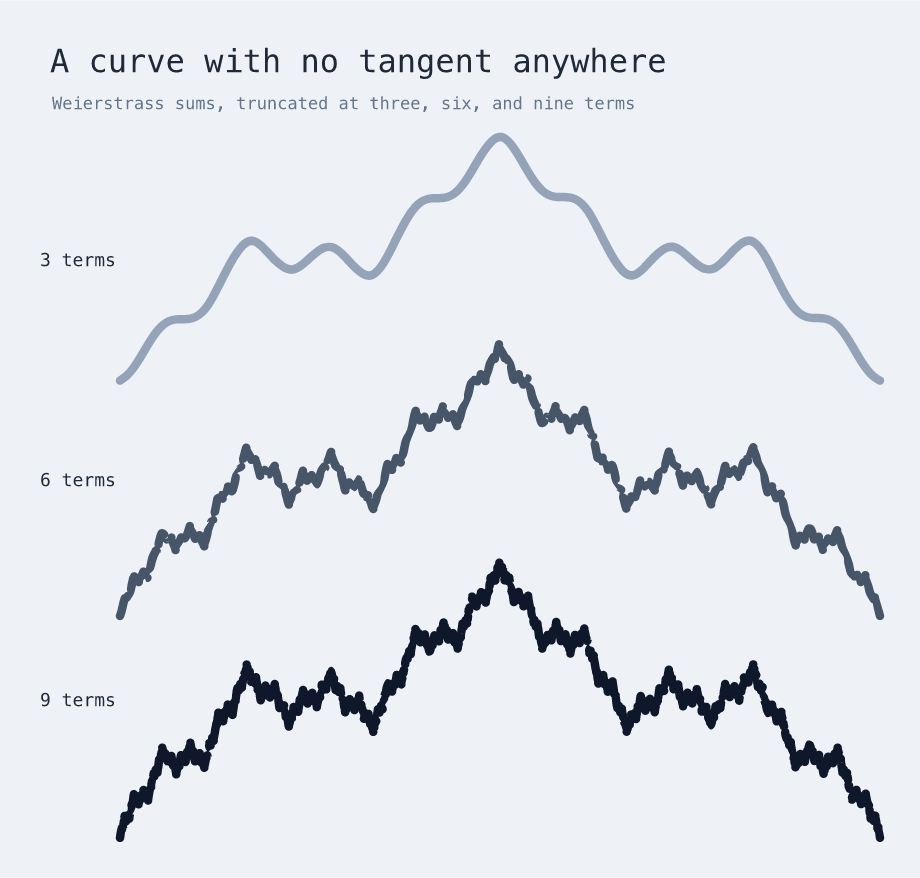
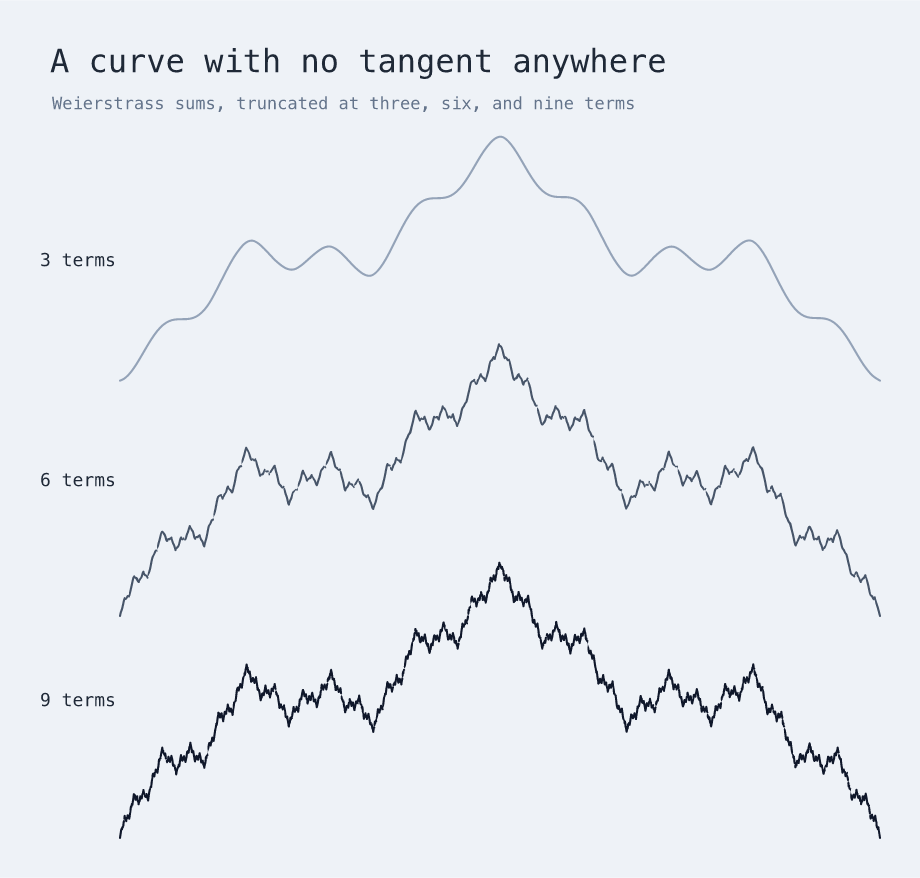
docs: draw plotted curves at the width their detail needs
A plot is lowered to a freehand stroke, and the renderer scales such a
stroke by 4.25 to match Excalidraw, so 'stroke-width 2' is about eight
pixels of ink. Every plot in the repository was written at 2 and was
painting over the thing it was there to show: the harmonograph's centre
was a solid block rather than separate strands, and the inner lobes of
both lacunary loops merged, which is exactly the self-similarity the
page claims for them.

Halve it to 0.5 on the three figures made of fine curves. Every strand
now resolves, at full colour rather than the grey a quarter-width stroke
anti-aliases to.

While measuring, found that the tolerance does not reach the ink.
perfect-freehand streamlines the points before drawing them, in this
renderer and in Excalidraw alike, and on these four curves that moves
the line up to 1.8px off a polyline sampled to 0.5px. The sampler is
sound; nothing downstream honours it. Say points rather than drawn line
wherever the guarantee is stated, which is what the sampler actually
promises, and leave the wider fix for its own change.

diff --git a/docs/plotting.md b/docs/plotting.md
@@ -76,7 +76,7 @@ x = a * t        unknown name 'a'
 
 ## Tolerance is a guarantee, not a target
 
-`tolerance` is the greatest distance the drawn line may fall from the true
+`tolerance` is the greatest distance a sampled point may fall from the true
 curve, in pixels. It defaults to `0.5`.
 
 ![The same rose at tolerance 16, 3, and 0.5. Petals collapse at the coarsest](images/plot-tolerance.png)
@@ -89,6 +89,25 @@ The word *guarantee* is meant literally. The compiler does not sample the curve
 at some points and hope the rest behaves; it bounds each span of the curve and
 subdivides until the bound fits inside the tolerance. A curve of high frequency
 cannot slip between the samples, because there are no samples to slip between.
+
+## The tolerance is about the points, not the ink
+
+A plot becomes a freehand stroke, and both this compiler's preview and
+Excalidraw draw such a stroke with [perfect-freehand](https://github.com/steveruizok/perfect-freehand),
+which streamlines and smooths the points on its way to an outline. That is
+right for a stroke someone drew with a pointer and wrong for one a compiler
+computed: measured against the four curves in `examples/parametric-plots.xdraw`,
+the smoothing moves the drawn centreline up to 1.8px away from the sampled
+polyline, on curves sampled to 0.5px.
+
+So the guarantee below is about where the points are, which is what the sampler
+controls. Getting the ink to match would mean emitting a line element rather
+than a stroke.
+
+The renderer also scales a stroke by 4.25, mirroring Excalidraw, so
+`stroke-width 2` is drawn about eight pixels wide. Fine curves want a fraction:
+the plots in this repository use `stroke-width 0.5`, without which strands
+overlapping at a few pixels' distance merge into a solid block.
 
 ## What it refuses, and why
 

diff --git a/docs/curve-gallery.md b/docs/curve-gallery.md
@@ -59,7 +59,7 @@ the ninth term oscillates 6561 times faster than the first.
 This is the hardest shape to draw accurately: high frequency riding on low, so
 that a sampler judging flatness from a handful of probes will call a span
 straight when it is anything but. Nine terms needs 3917 points and 409 ms, and
-the drawn line stays within 0.484px of the true curve. Source:
+the sampled points stay within 0.484px of the true curve. Source:
 [`examples/fractal-curve.xdraw`](../examples/fractal-curve.xdraw).
 
 ## Fractals: what a closed vocabulary reaches, and what it cannot
@@ -123,8 +123,9 @@ faster harmonic. Source:
 
 ## What held
 
-Sixteen curves at a 0.5px tolerance, with the true worst departure measured
-afterwards by dense probing rather than trusted from the sampler:
+Sixteen curves at a 0.5px tolerance, with the worst departure of the sampled
+points measured afterwards by dense probing rather than trusted from the
+sampler:
 
 | curve | nodes | points | ms | worst | |
 |---|--:|--:|--:|--:|---|

diff --git a/README.md b/README.md
@@ -205,8 +205,8 @@ diagram "Quadratic formula" {
 XDRAW
 ```
 
-`math.plot` draws a parametric curve from a pair of expressions, and guarantees
-the drawn line stays within a stated distance of the true curve:
+`math.plot` draws a parametric curve from a pair of expressions, sampling it
+until the points provably lie within a stated distance of the true curve:
 
 ![Four parametric curves: a butterfly, a spirograph rosette, a harmonograph, and a Lissajous weave](docs/images/parametric-plots.png)
 
